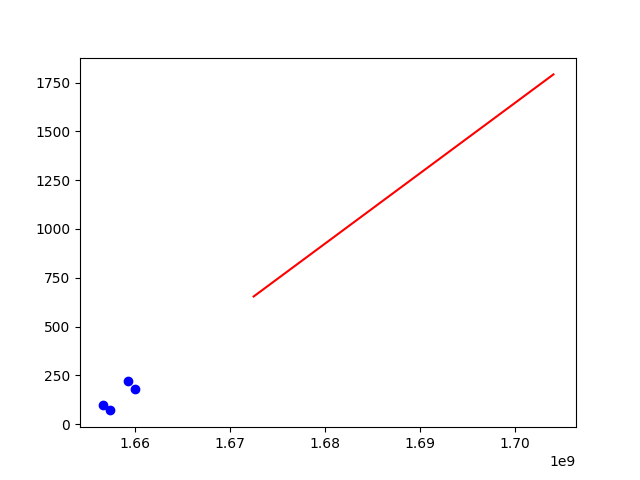
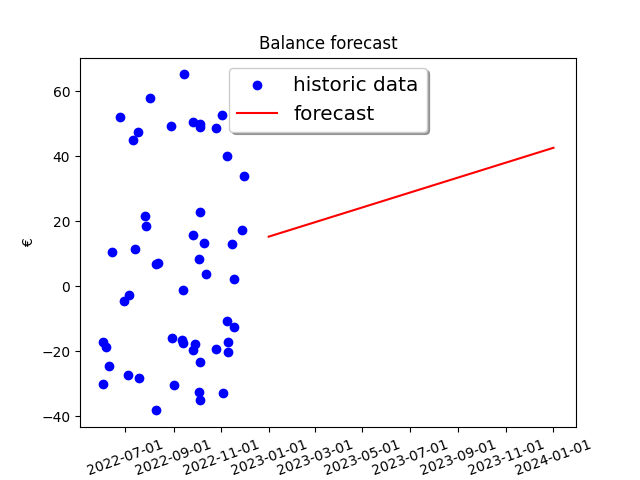
dataplotter: improving plots
Fixes #31

diff --git a/dataplotter.py b/dataplotter.py
@@ -1,0 +1,82 @@
+import matplotlib.pyplot as plt
+import matplotlib.dates as mdates
+import os
+import numpy
+
+class DataPlotter():
+    _figAccount = None
+    _ax1Account = None
+    _figCosts = None
+    _ax1Costs = None
+    _settings = None
+    _plot = True
+
+    def _initAccount(self):
+        if self._figAccount is None:
+            self._figAccount, self._ax1Account = plt.subplots(num="Forecast")
+
+
+    def _initCosts(self):
+        if self._figCosts is None:
+            self._figCosts, self._ax1Costs = plt.subplots(num="Costs")
+
+
+    def showAccount(self):
+        # Account plot settings
+        self._ax1Account.set_title('Balance forecast')
+        self._ax1Account.xaxis.set_major_formatter(mdates.DateFormatter('%Y-%m-%d'))
+        self._ax1Account.set_xlabel('Date')
+        self._ax1Account.set_ylabel('€')
+        self._ax1Account.legend(loc='upper center', shadow=True, fontsize='x-large')
+
+        if not os.path.exists('output'):
+            os.mkdir('output')
+        self._figAccount.savefig('output/account.png')
+        plt.show()
+
+
+    def showCosts(self):
+        # Costs plot settings
+        self._ax1Costs.set_title('')
+        suffix = ''
+        if self._settings:
+            suffix = '-'+self._settings['fromDate']+'-to-'+self._settings['toDate']
+        self._ax1Costs.set_title('Costs ' + suffix)
+        self._ax1Costs.set_xlabel('€')
+        self._ax1Costs.set_ylabel('€')
+        self._ax1Costs.legend(loc='upper center', shadow=True, fontsize='x-large')
+
+        if not os.path.exists('output'):
+            os.mkdir('output')
+        self._figCosts.savefig('output/costs'+suffix+'.png')
+        if self._plot:
+            plt.show()
+
+
+    def __init__(self, settings = None) -> None:
+        self._settings = settings
+        if settings and 'plot' in settings:
+            self._plot = settings['plot']
+
+
+    def plotData(self, x, y):
+        self._initAccount()
+        x = numpy.asarray(x, dtype='datetime64[s]')
+        self._ax1Account.set_xticklabels(x, rotation=45)
+        self._ax1Account.scatter(x, y, color='blue', label='historic data')
+
+
+    def plotForecast(self, x, y):
+        self._initAccount()
+        x = numpy.asarray(x, dtype='datetime64[s]')
+        self._ax1Account.set_xticklabels(x, rotation=20)
+        self._ax1Account.plot(x, y, color='red', label='forecast')
+
+
+    def plotCluster(self, data):
+        self._initCosts()
+        self._ax1Costs.clear()
+        self._ax1Costs.set_ylim(-500, 500)
+        self._ax1Costs.set_xlim(-500, 500)
+        self._ax1Costs.scatter(data, data, color="red", marker='+', label='costs')
+        self.showCosts()

diff --git a/dataprocessor.py b/dataprocessor.py
@@ -1,7 +1,7 @@
 from ddbbreader import DatabaseReader
 from linearPredictor import LinearDataPredictor
 from clusterpredictor import ClusterDataPredictor
-from dataploter import DataPloter
+from dataplotter import DataPlotter
 
 import logging
 import numpy
@@ -51,9 +51,10 @@ def processAccount(dataReader, settings):
     prediction = dp.predict(numpy.array(x_pred_int), Normalized)
 
     # Plot data
-    dataPlotter = DataPloter()
+    dataPlotter = DataPlotter()
     dataPlotter.plotData(x_train_int, y_train_float)
     dataPlotter.plotForecast(x_pred_int, prediction)
+    dataPlotter.showAccount()
 
 
 def processCosts(dataReader, clusters, settings):
@@ -82,7 +83,7 @@ def processCosts(dataReader, clusters, settings):
     })
     dp.train()
 
-    dataPlotter = DataPloter(settings)
+    dataPlotter = DataPlotter(settings)
     dataPlotter.plotCluster(dp.getCenters())
 
 
@@ -98,7 +99,7 @@ if __name__ == "__main__":
     fromDate = '2022-06-01'
     toDate = '2023-06-01'
     nlastMonths = 6
-    clusters = 50
+    clusters = 10
 
     for opt, arg in opts:
         if opt == '-h':
@@ -133,7 +134,7 @@ if __name__ == "__main__":
         settings = {
             'fromDate' : str(oneMonthBeforeCurrent),
             'toDate' : str(current),
-            'plot' : False,
+            'plot' : True,
         }
         processCosts(dataReader, clusters, settings)
         current = oneMonthBeforeCurrent

diff --git a/README.md b/README.md
@@ -1,9 +1,9 @@
 # Introduction
-Finance is tool that helps with the own knowledge of the finance status. It basically tries to discover your account management. To do that two tools are provided:
-* Datafeeder: To import the account balance and movements independently
-* Dataprocessor: That process the imported data and generates a forecast based on its historic
+Finance is a tool that helps with the own knowledge of the financial status. It basically tries to discover your account management. To do that two tools are provided:
+* Datafeeder: Imports the account balance and movements separately
+* Dataprocessor: That process the imported data and generates a forecast based on its past data
 
-The plots are saved in the img folder. Also, a Jenkinsfile is provided to automatize the data injection
+The generated plots (forecast and clustering) are saved in the `output` folder. Also, a Jenkinsfile is provided to automatize the data injection
 by scanning a folder automatically.
 
 The input data sopported is .xls or .csv files with the format shown in the example
